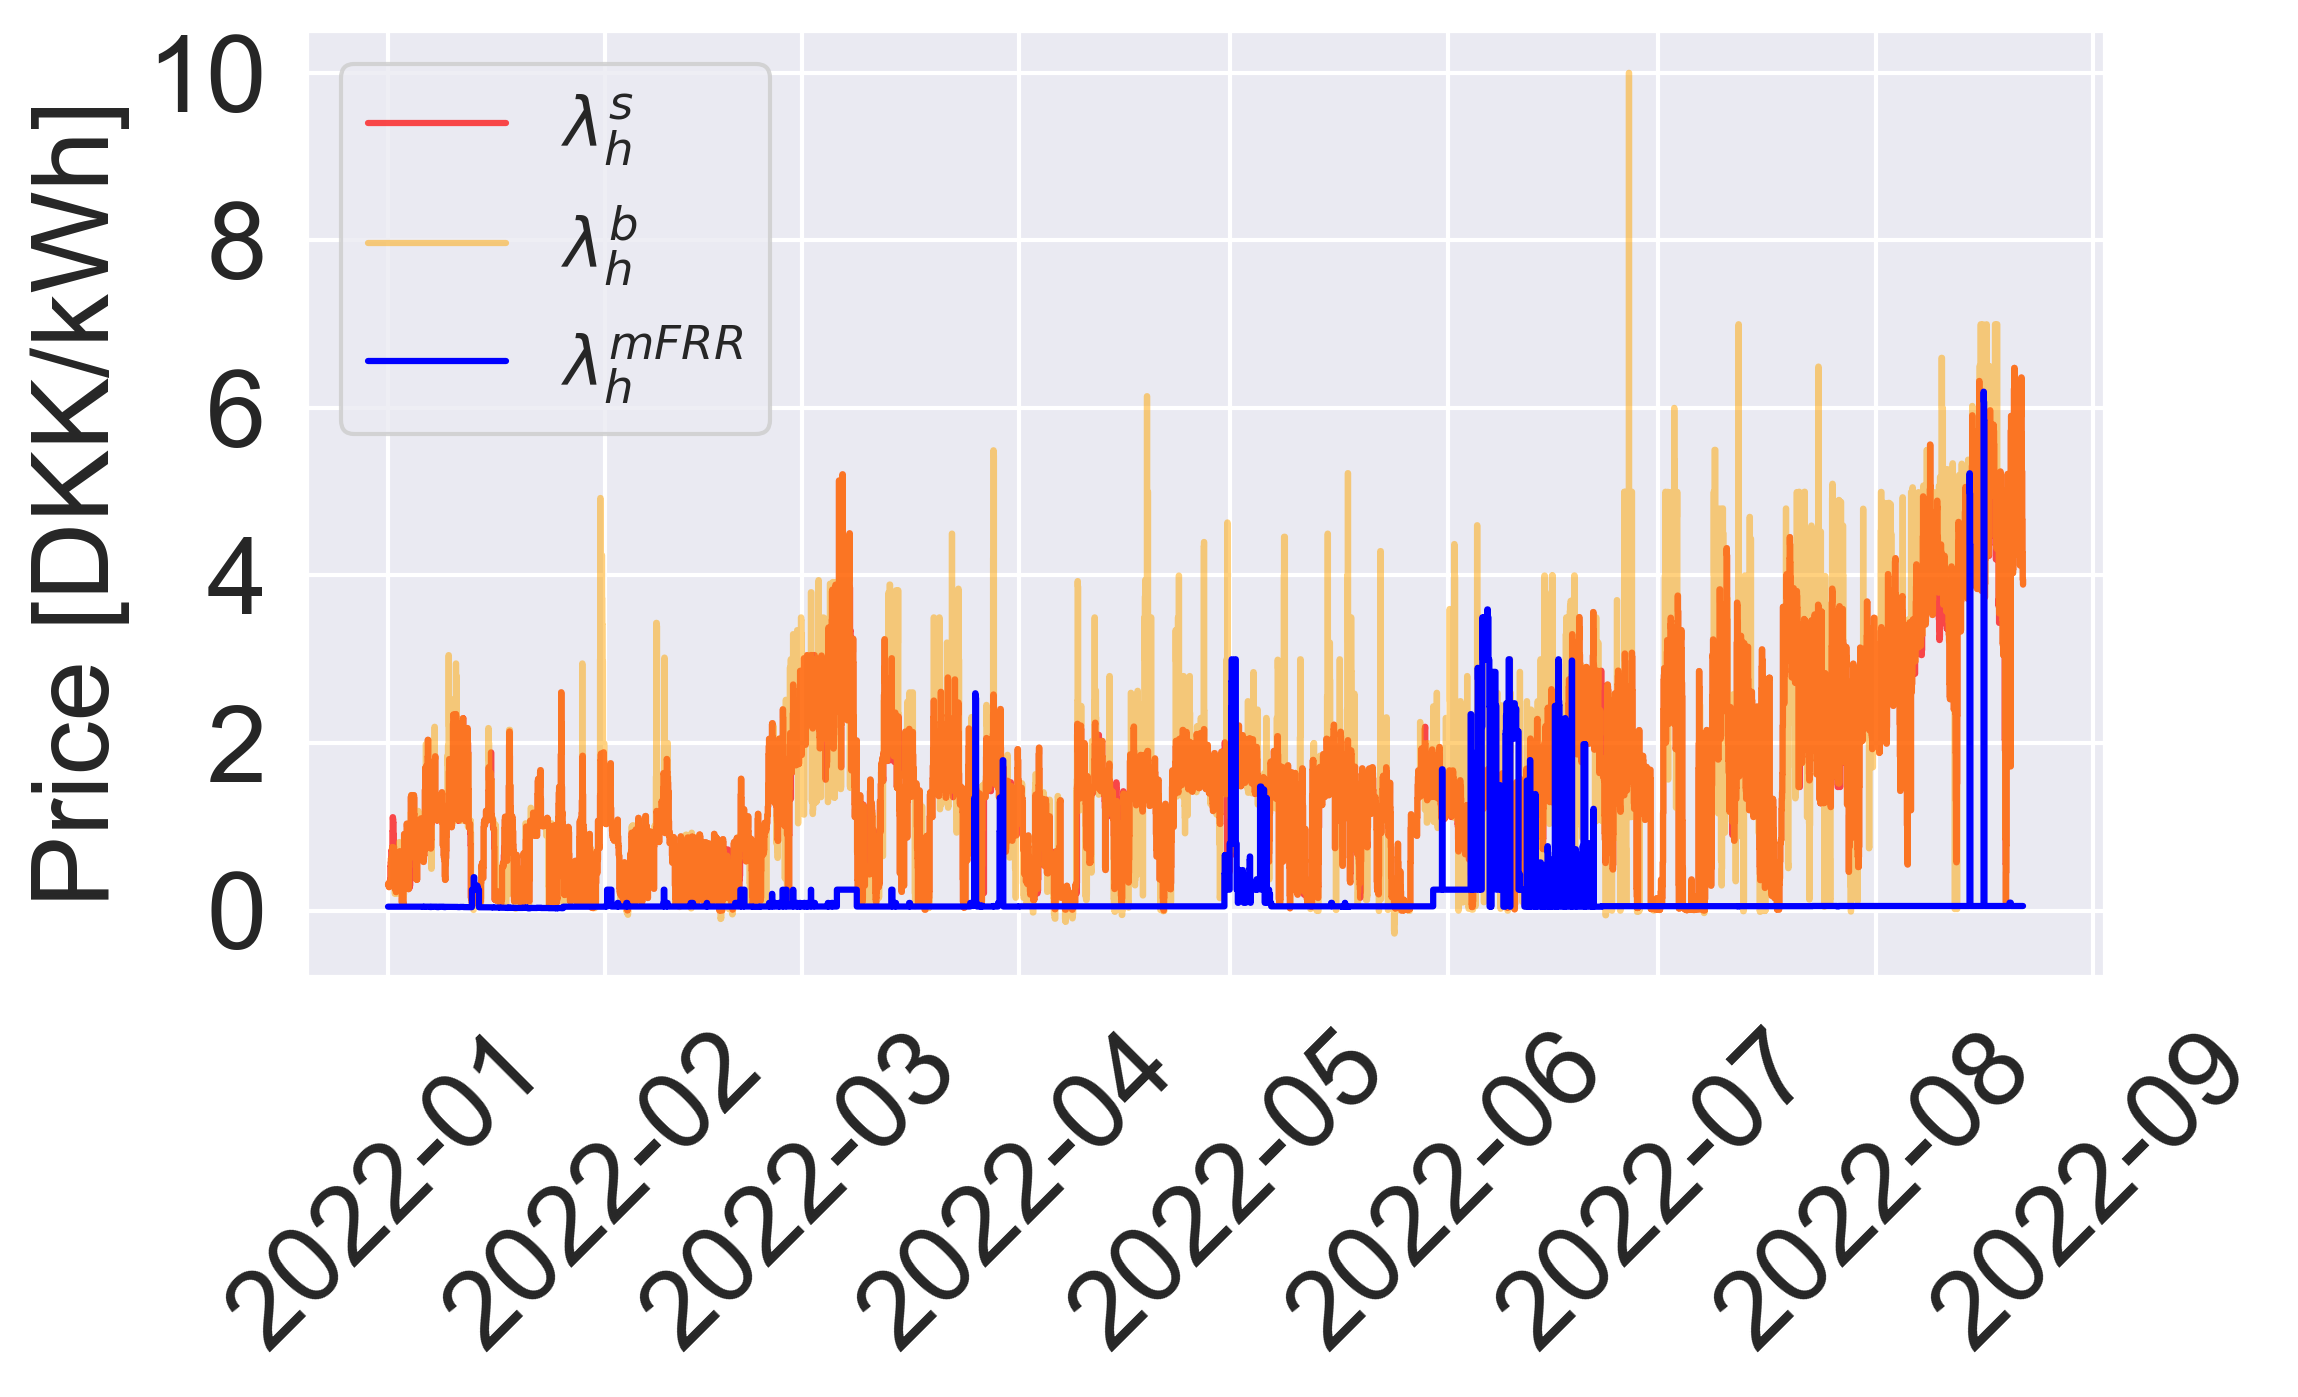
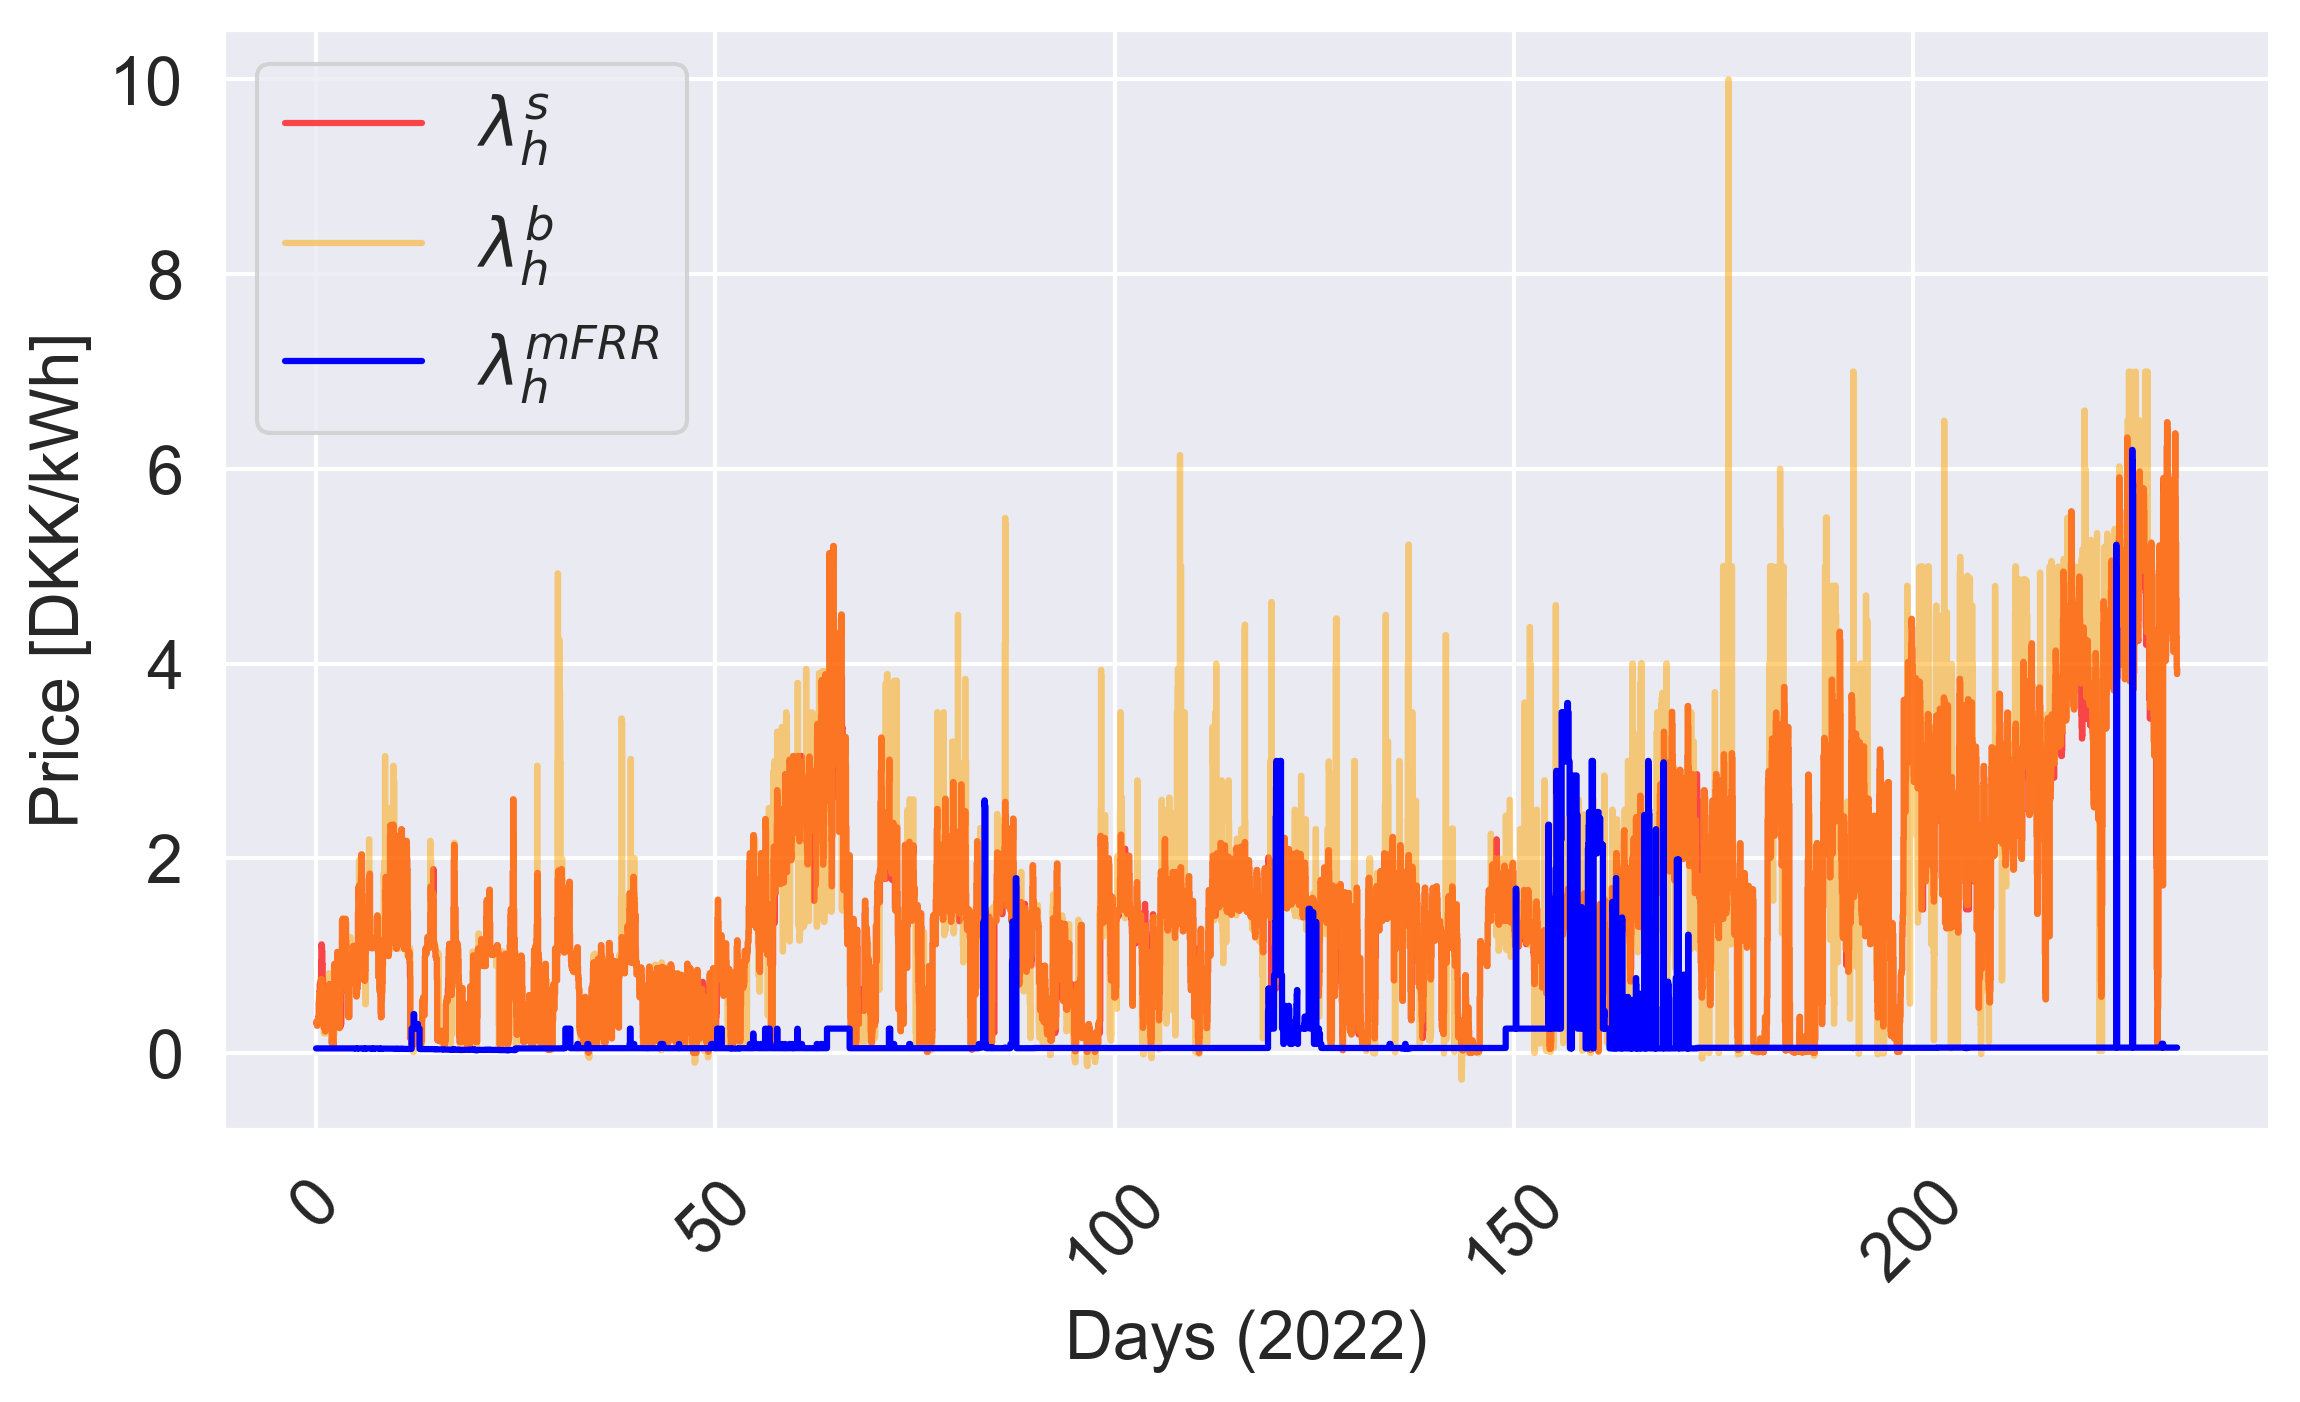
Add price plot v2

diff --git a/src/price_plot.py b/src/price_plot.py
@@ -18,17 +18,13 @@ data_loader = DataLoader()
 spot_prices = data_loader._lambda_spot.reshape(-1)  # type:ignore
 mfrr_prices = data_loader._lambda_mfrr.reshape(-1)  # type:ignore
 balance_prices = data_loader._lambda_rp.reshape(-1)  # type:ignore
-_hours = list(range(1, len(spot_prices) + 1))
-
-hours = [
-    datetime.datetime(2022, 1, 1) + datetime.timedelta(hours=h)  # type:ignore
-    for h in _hours
-]
+hours = np.array(list(range(1, len(spot_prices) + 1)))
+days = hours / 24
 
 fig, ax = plt.subplots(1, 1, figsize=(8, 5))
 # lineplots of prices
 ax.step(
-    hours,
+    days,
     spot_prices,
     label=r"$\lambda_{h}^{s}$",
     color="red",
@@ -36,7 +32,7 @@ ax.step(
     alpha=0.7,
 )
 ax.step(
-    hours,
+    days,
     balance_prices,
     label=r"$\lambda_{h}^{b}$",
     color="orange",
@@ -44,7 +40,7 @@ ax.step(
     alpha=0.5,
 )
 ax.step(
-    hours,
+    days,
     mfrr_prices,
     label=r"$\lambda_{h}^{mFRR}$",
     color="blue",
@@ -52,9 +48,10 @@ ax.step(
 )
 
 ax.set_ylabel("Price [DKK/kWh]")
+ax.set_xlabel("Days")
 ax.legend(loc="best")
 ax.xaxis.set_tick_params(rotation=45)
-_set_font_size(ax, legend=16)
+_set_font_size(ax, misc=16, legend=16)
 plt.tight_layout()
 
 plt.savefig("tex/figures/prices.png", bbox_inches="tight", dpi=300)
